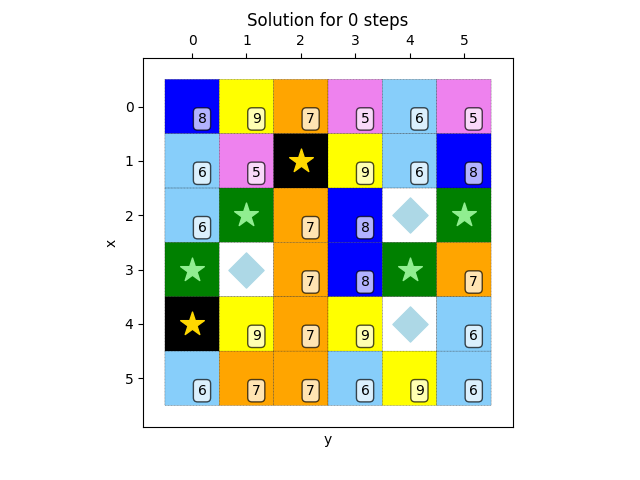
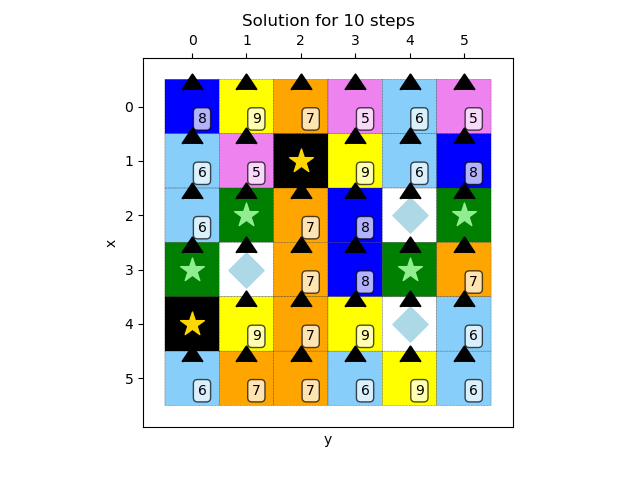
hi

diff --git a/automated-reasoning/automated_reasoning/assignment2/robot/robot.py b/automated-reasoning/automated_reasoning/assignment2/robot/robot.py
@@ -1,4 +1,4 @@
-ACTIONS = ["N", "S", "W", "E"]
+ACTIONS = ["N", "S", "W", "E", "STAND_STILL"]
 
 import math
 import sys
@@ -21,7 +21,6 @@ def solve(grid: Grid) -> tuple[int, dict[Cell, str]]:
     F_PLAN_BOUND = [Or(V_PLAN[c] == 1, V_PLAN[c] == 2, V_PLAN[c] == 3, V_PLAN[c] == 4)
                     for c in grid.colors if c != 1] + [V_PLAN[1] == 5]
 
-    print(F_PLAN_BOUND)
     phi = F_PLAN_BOUND
   
     V_ALL_VARS = V_PLAN
@@ -31,9 +30,9 @@ def solve(grid: Grid) -> tuple[int, dict[Cell, str]]:
     s.check()
     try:
         m = s.model()
-        plan = {c: m.evaluate(V_PLAN[c]) for c in V_PLAN}
-        
-        return {}, 0
+        plan = {c: int(str(m.evaluate(V_PLAN[c]))) for c in V_PLAN}
+        policy = {cell: ACTIONS[plan[grid.get_color(cell)]-1] for cell in grid.cells}
+        return 10, policy
     except:
         step_bound = 0
         policy = None
@@ -67,11 +66,14 @@ def main():
     nr_steps, policy = solve(grid)
     if policy is not None:
         solution_checker = SolutionChecker(grid, policy)
+        try:
+            print(solution_checker.run())
+            print(f"Found a solution with {nr_steps} steps.")
+        except:
+            print("Solution checker failed.")
         grid.plot(
             f"test_solution.png", policy=policy, count=nr_steps
         )
-        print(solution_checker.run())
-        print(f"Found a solution with {nr_steps} steps.")
     else:
         print("Found no solution.")
 

diff --git a/automated-reasoning/automated_reasoning/assignment2/robot/grid.py b/automated-reasoning/automated_reasoning/assignment2/robot/grid.py
@@ -311,6 +311,7 @@ class Grid:
                     marker=dir_to_carret(policy.get(c)),
                     color="black",
                 )
+        plt.show()
         fig.savefig(path)
         plt.close(fig)
 
